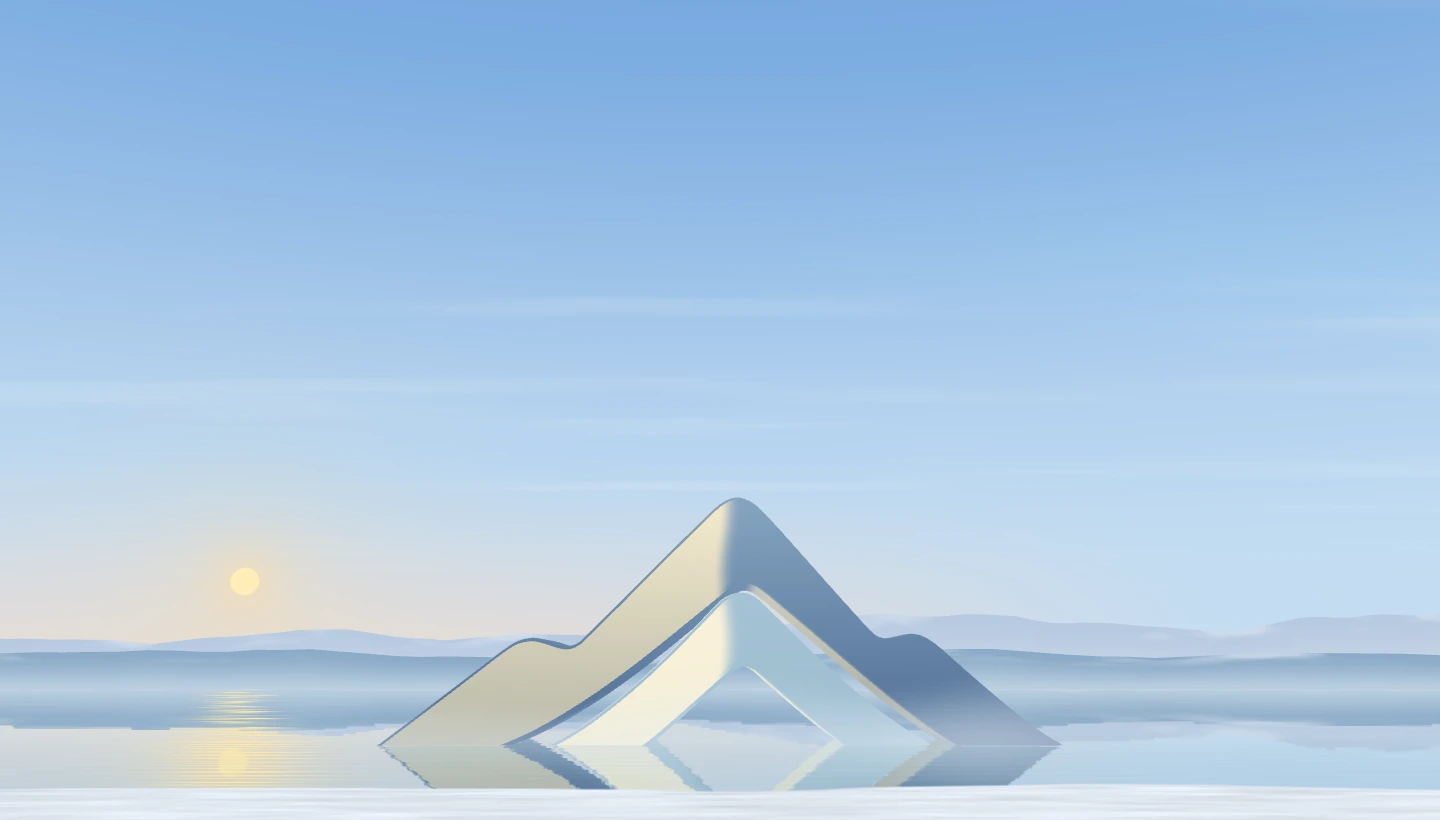
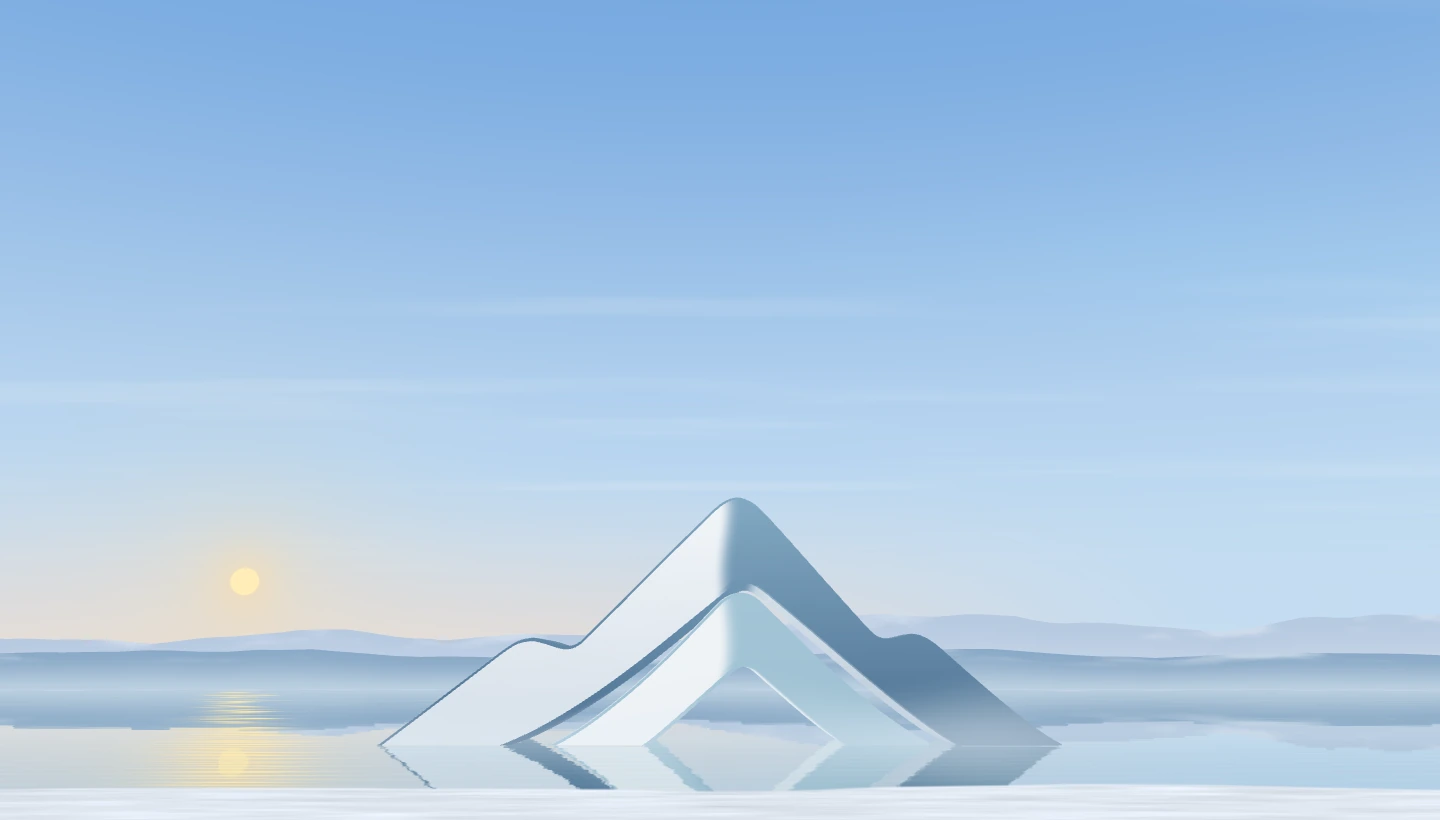
Enfría la nieve del isotipo y reserva la luz cálida para la cresta

diff --git a/review/nieve-neutra/reporte.html b/review/nieve-neutra/reporte.html
@@ -1,0 +1,1 @@
+<!doctype html><html lang="es"><meta charset="utf-8"><meta name="viewport" content="width=device-width"><title>Inicio · nieve neutra</title><style>body{font:16px/1.5 system-ui;background:#f4f7f9;color:#172e43;max-width:1350px;margin:auto;padding:24px}img{display:block;max-width:100%;height:auto}th,td{padding:6px 16px;text-align:left;border-bottom:1px solid #b9c9d3}a{color:#175879}</style><h1>La nieve del isotipo</h1><p>Comparación local con fb77b69, con la misma luz, cámara y tiempo. La cara iluminada pasa de crema a blanco frío; la sombra se acerca ligeramente al cyan. El filo cálido queda limitado a la cresta superior. El lago refleja el nuevo material de la montaña.</p><h2>ES · 1440 px</h2><a href="comparativa-es-light-1440.png"><img loading="lazy" src="comparativa-es-light-1440.png" alt="fb77b69 a la izquierda y ajuste a la derecha"></a><h2>ES · 375 px</h2><a href="comparativa-es-light-375.png"><img loading="lazy" src="comparativa-es-light-375.png" alt="fb77b69 a la izquierda y ajuste a la derecha"></a><h2>EN · 1440 px</h2><a href="comparativa-en-light-1440.png"><img loading="lazy" src="comparativa-en-light-1440.png" alt="fb77b69 a la izquierda y ajuste a la derecha"></a><h2>EN · 375 px</h2><a href="comparativa-en-light-375.png"><img loading="lazy" src="comparativa-en-light-375.png" alt="fb77b69 a la izquierda y ajuste a la derecha"></a><h2>Contraste mínimo</h2><p>Se muestreó el interior de las letras en doce fases de iluminación. Las relaciones fueron idénticas antes y después en las cuatro vistas.</p><table><tr><th>Vista</th><th>Titular</th><th>Acento</th></tr><tr><th>ES · 1440 px</th><td>12,42:1</td><td>4,82:1</td></tr><tr><th>ES · 375 px</th><td>12,09:1</td><td>4,81:1</td></tr><tr><th>EN · 1440 px</th><td>12,40:1</td><td>4,81:1</td></tr><tr><th>EN · 375 px</th><td>12,08:1</td><td>4,81:1</td></tr></table><p><a href="titular.json">Valores sin redondear</a></p><h2>Verificación</h2><p>La comparación nocturna con reloj congelado y el mismo rasterizador produjo cero píxeles distintos de 6.571.000 en cuatro formatos. <a href="noche.json">Resultados nocturnos</a>.</p><p>Se regeneraron los ocho pósteres claros y sus parches de orilla para incluir el nuevo reflejo. La calibración de la cámara se mantuvo. Pasaron typecheck, las 299 pruebas de Node, las comprobaciones de Posada, build y check:build.</p>

diff --git a/src/site/landscape/landscape-scene.js b/src/site/landscape/landscape-scene.js
@@ -243,12 +243,23 @@ const mountainFragment = /* glsl */`
     vec3 facet = normalize(mix(n,slope,0.90*smoothstep(0.55,0.94,abs(n.z))));
     float facing = dot(facet,sun);
     float direct = smoothstep(-0.10,0.26,facing);
-    vec3 shadow = mix(vec3(0.31,0.43,0.58),vec3(0.54,0.66,0.77),h);
-    vec3 white = mix(vec3(0.72,0.72,0.66),vec3(0.98,0.94,0.82),h);
-    vec3 day = mix(shadow,white,direct*light)*(0.95+0.05*strata);
-    day = mix(day,mix(vec3(0.68,0.80,0.86),vec3(1.0,0.97,0.87),direct),glacierBand*glacier*0.84);
-    float rim = smoothstep(0.12,0.76,n.y)*smoothstep(0.48,0.88,h)*direct;
-    day = mix(day,vec3(1.0,0.86,0.60),rim*light*0.64);
+    vec3 day;
+    if (dark < 1.0) {
+      vec3 shadow = mix(vec3(0.30,0.44,0.57),vec3(0.53,0.68,0.78),h);
+      vec3 white = mix(vec3(0.84,0.88,0.92),vec3(0.96,0.97,0.98),h);
+      day = mix(shadow,white,direct*light)*(0.95+0.05*strata);
+      day = mix(day,mix(vec3(0.68,0.81,0.87),vec3(0.95,0.96,0.97),direct),glacierBand*glacier*0.84);
+      float rim = smoothstep(0.78,0.98,n.y)*smoothstep(0.78,0.96,h)*direct;
+      day = mix(day,vec3(0.98,0.95,0.92),rim*light*0.22);
+    } else {
+      // Keep the original operands for the final mix: rounding is visible at 8-bit precision.
+      vec3 shadow = mix(vec3(0.31,0.43,0.58),vec3(0.54,0.66,0.77),h);
+      vec3 white = mix(vec3(0.72,0.72,0.66),vec3(0.98,0.94,0.82),h);
+      day = mix(shadow,white,direct*light)*(0.95+0.05*strata);
+      day = mix(day,mix(vec3(0.68,0.80,0.86),vec3(1.0,0.97,0.87),direct),glacierBand*glacier*0.84);
+      float rim = smoothstep(0.12,0.76,n.y)*smoothstep(0.48,0.88,h)*direct;
+      day = mix(day,vec3(1.0,0.86,0.60),rim*light*0.64);
+    }
     c = mix(day, c, dark);
 
     // Haze at the foot of the mountain, the colour of the horizon glow.
